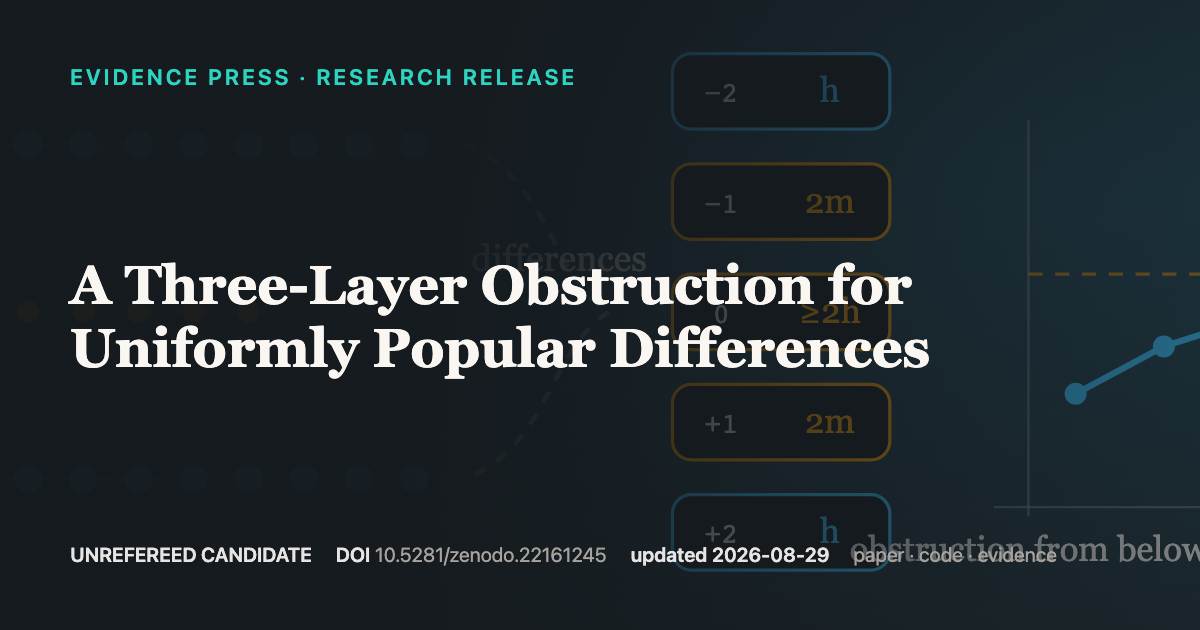
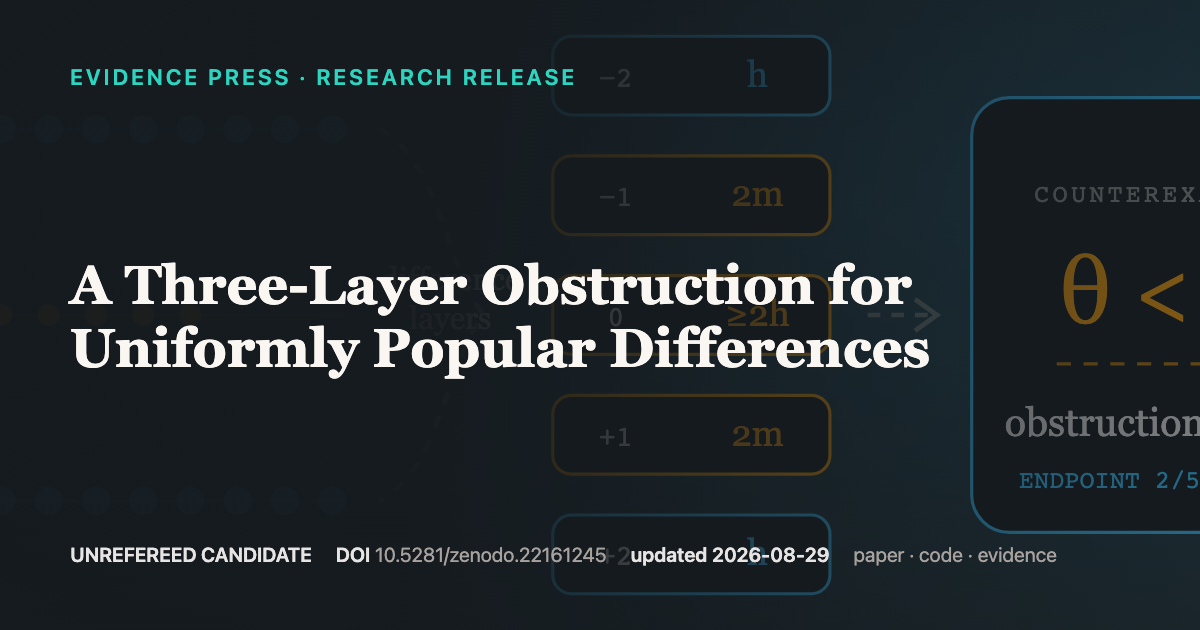
Repair odd-order release art and timing record

diff --git a/build.js b/build.js
@@ -1122,6 +1122,11 @@ function operatingModelHtml(p) {
       const targetClosureBrier = outcome
         ? (forecast.probabilityTargetClosure - Number(outcome.targetReached)) ** 2
         : null;
+      const corrections = (attempt.corrections || []).length
+        ? `<dt>Measurement corrections</dt><dd><ul>${attempt.corrections.map(correction =>
+          `<li><strong>${esc(correction.field)}</strong> — ${esc(correction.replacement)} <span class="note">Reason: ${esc(correction.reason)}</span></li>`
+        ).join('')}</ul></dd>`
+        : '';
       const result = outcome ? [
         `<dt>Observed clocks</dt><dd>${esc(outcome.activeAgentMinutes)} active-agent; ${esc(outcome.activeHumanMinutes ?? 'unknown')} active-human; ${esc(outcome.computeMinutes ?? 'unknown')} substantive-compute; ${esc(outcome.unattendedWaitMinutes)} unattended-wait; ${esc(outcome.blockedMinutes)} blocked; ${esc(outcome.reworkMinutes)} rework minutes. Calendar elapsed: ${esc(outcome.calendarElapsedMinutes)} minutes.</dd>`,
         `<dt>Research search</dt><dd>Cycles: ${esc(outcome.researchCycles.positive)} positive, ${esc(outcome.researchCycles.negative)} negative, ${esc(outcome.researchCycles.inconclusive)} inconclusive. Falsification gates: ${esc(outcome.falsificationGatesRun)}. Candidate architectures: ${esc(outcome.candidateArchitecturesTested)} tested, ${esc(outcome.candidateArchitecturesRejected)} rejected.</dd>`,
@@ -1135,6 +1140,7 @@ function operatingModelHtml(p) {
         <dt>Fermi active-time forecast</dt><dd>${esc(forecast.expectedActiveMinutes)} minutes; plausible interval ${esc(forecast.plausibleLowMinutes)}–${esc(forecast.plausibleHighMinutes)}; expected unattended wait ${esc(forecast.expectedUnattendedWaitMinutes)}. Reference class: ${esc(forecast.referenceClass.label)} (n=${esc(forecast.referenceClass.sampleSize)}) — ${esc(forecast.referenceClass.basis)}.<ul>${components}</ul></dd>
         <dt>Tractability forecast</dt><dd>Within ${esc(forecast.probabilityHorizonMinutes)} active minutes: positive signal ${esc(forecast.probabilityPositiveSignal)}; target closure ${esc(forecast.probabilityTargetClosure)}. Stop rule: ${esc(forecast.stopRule)}</dd>
         ${result}
+        ${corrections}
       </dl></article></li>`;
     }
     const measurement = attempt.measurement;
@@ -1188,7 +1194,10 @@ function operatingModelMarkdown(p) {
         ? rounded((forecast.probabilityPositiveSignal - Number(outcome.positiveSignalObserved)) ** 2, 4)
         : 'not scored';
       const targetClosureBrier = rounded((forecast.probabilityTargetClosure - Number(outcome.targetReached)) ** 2, 4);
-      return `${id}: ${attempt.status} / ${attempt.resultClass}; scope ${metrics.measurementScope}; target ${forecast.targetOutcome}; active forecast ${forecast.expectedActiveMinutes} minutes (${forecast.plausibleLowMinutes}-${forecast.plausibleHighMinutes}); Fermi components ${components}; positive-signal/closure probabilities ${forecast.probabilityPositiveSignal}/${forecast.probabilityTargetClosure} within ${forecast.probabilityHorizonMinutes} active minutes; observed active-agent/human/compute/wait/blocked/rework minutes ${outcome.activeAgentMinutes}/${outcome.activeHumanMinutes ?? 'unknown'}/${outcome.computeMinutes ?? 'unknown'}/${outcome.unattendedWaitMinutes}/${outcome.blockedMinutes}/${outcome.reworkMinutes}; cycles positive/negative/inconclusive ${outcome.researchCycles.positive}/${outcome.researchCycles.negative}/${outcome.researchCycles.inconclusive}; falsification gates ${outcome.falsificationGatesRun}; architectures tested/rejected ${outcome.candidateArchitecturesTested}/${outcome.candidateArchitecturesRejected}; result ${outcome.resultState}; target reached ${outcome.targetReached}; forecast error ${outcome.forecastErrorMinutes} minutes; ratio ${outcome.forecastRatio}; inside interval ${outcome.withinForecastInterval}; positive-signal/target-closure Brier scores ${positiveSignalBrier}/${targetClosureBrier}${missing}`;
+      const corrections = (attempt.corrections || []).length
+        ? `; appended measurement corrections ${attempt.corrections.map(correction => `${correction.field}: ${correction.replacement} (reason: ${correction.reason})`).join('; ')}`
+        : '';
+      return `${id}: ${attempt.status} / ${attempt.resultClass}; scope ${metrics.measurementScope}; target ${forecast.targetOutcome}; active forecast ${forecast.expectedActiveMinutes} minutes (${forecast.plausibleLowMinutes}-${forecast.plausibleHighMinutes}); Fermi components ${components}; positive-signal/closure probabilities ${forecast.probabilityPositiveSignal}/${forecast.probabilityTargetClosure} within ${forecast.probabilityHorizonMinutes} active minutes; observed active-agent/human/compute/wait/blocked/rework minutes ${outcome.activeAgentMinutes}/${outcome.activeHumanMinutes ?? 'unknown'}/${outcome.computeMinutes ?? 'unknown'}/${outcome.unattendedWaitMinutes}/${outcome.blockedMinutes}/${outcome.reworkMinutes}; cycles positive/negative/inconclusive ${outcome.researchCycles.positive}/${outcome.researchCycles.negative}/${outcome.researchCycles.inconclusive}; falsification gates ${outcome.falsificationGatesRun}; architectures tested/rejected ${outcome.candidateArchitecturesTested}/${outcome.candidateArchitecturesRejected}; result ${outcome.resultState}; target reached ${outcome.targetReached}; forecast error ${outcome.forecastErrorMinutes} minutes; ratio ${outcome.forecastRatio}; inside interval ${outcome.withinForecastInterval}; positive-signal/target-closure Brier scores ${positiveSignalBrier}/${targetClosureBrier}${missing}${corrections}`;
     }
     const measurement = attempt.measurement.status === 'not-recorded'
       ? `measurement not recorded (${attempt.measurement.missingnessReason})`

diff --git a/tools/make-art.js b/tools/make-art.js
@@ -1183,39 +1183,40 @@ art['o01d0-polar-fibre-structural-reductions'] = (a, b) => {
    marker preserves the open endpoint rather than presenting it as solved. */
 art['odd-order-one-third-popular-differences'] = (a, b) => {
   let s = '';
-  const layerY = [92, 198, 304];
+  const layerY = [82, 200, 318];
   const layerLabels = ['H × {0}', 'Y × {1}', 'H × {2}'];
   const counts = [9, 6, 9];
   for (let row = 0; row < layerY.length; row++) {
     const y = layerY[row];
-    s += `<text x="66" y="${y + 6}" font-family="ui-monospace,monospace" font-size="17" fill="${row === 1 ? b : a}">${layerLabels[row]}</text>`;
+    s += `<text x="64" y="${y + 6}" font-family="ui-monospace,monospace" font-size="17" fill="${row === 1 ? b : a}">${layerLabels[row]}</text>`;
     for (let i = 0; i < counts[row]; i++) {
-      const x = 202 + i * 35;
+      const x = 190 + i * 30;
       s += `<circle cx="${x}" cy="${y}" r="${row === 1 ? 7 : 9}" fill="${row === 1 ? b : a}" opacity="${row === 1 ? .92 : .78}"/>`;
     }
-    s += `<line x1="194" y1="${y}" x2="492" y2="${y}" stroke="${row === 1 ? b : a}" stroke-width="2" opacity=".34"/>`;
+    s += `<line x1="182" y1="${y}" x2="438" y2="${y}" stroke="${row === 1 ? b : a}" stroke-width="2" opacity=".34"/>`;
   }
-  s += `<path d="M 514 92 C 568 112, 568 176, 606 198 C 568 220, 568 284, 514 304" fill="none" stroke="#8a938f" stroke-width="3" stroke-dasharray="8 8" opacity=".72"/>`;
-  s += `<text x="574" y="172" text-anchor="middle" font-family="Georgia" font-size="23" fill="#e7e5e4">differences</text>`;
+  s += `<path d="M 460 82 C 500 104, 500 166, 526 200 C 500 234, 500 296, 460 318" fill="none" stroke="#8a938f" stroke-width="3" stroke-dasharray="8 8" opacity=".72"/>`;
+  s += `<text x="505" y="184" text-anchor="middle" font-family="Georgia" font-size="20" fill="#e7e5e4">difference</text>`;
+  s += `<text x="505" y="209" text-anchor="middle" font-family="Georgia" font-size="20" fill="#e7e5e4">layers</text>`;
 
   const diffLabels = ['−2', '−1', '0', '+1', '+2'];
   const diffCounts = ['h', '2m', '≥2h', '2m', 'h'];
   for (let i = 0; i < diffLabels.length; i++) {
-    const y = 58 + i * 70;
+    const y = 48 + i * 76;
     const strong = i === 0 || i === 4;
-    s += `<rect x="646" y="${y - 24}" width="138" height="48" rx="12" fill="#151a1e" stroke="${strong ? a : b}" stroke-width="2"/>`;
-    s += `<text x="677" y="${y + 7}" text-anchor="middle" font-family="ui-monospace,monospace" font-size="18" fill="#e7e5e4">${diffLabels[i]}</text>`;
-    s += `<text x="746" y="${y + 7}" text-anchor="middle" font-family="Georgia" font-size="22" fill="${strong ? a : b}">${diffCounts[i]}</text>`;
+    s += `<rect x="570" y="${y - 25}" width="176" height="50" rx="12" fill="#151a1e" stroke="${strong ? a : b}" stroke-width="2"/>`;
+    s += `<text x="610" y="${y + 7}" text-anchor="middle" font-family="ui-monospace,monospace" font-size="18" fill="#e7e5e4">${diffLabels[i]}</text>`;
+    s += `<text x="700" y="${y + 7}" text-anchor="middle" font-family="Georgia" font-size="23" fill="${strong ? a : b}">${diffCounts[i]}</text>`;
   }
 
-  s += `<line x1="850" y1="322" x2="1134" y2="322" stroke="#8a938f" stroke-width="1.5" opacity=".55"/>`;
-  s += `<line x1="872" y1="328" x2="872" y2="76" stroke="#8a938f" stroke-width="1.5" opacity=".55"/>`;
-  s += `<line x1="872" y1="174" x2="1134" y2="174" stroke="${b}" stroke-width="2" stroke-dasharray="9 8" opacity=".7"/>`;
-  s += `<text x="1126" y="163" text-anchor="end" font-family="ui-monospace,monospace" font-size="16" fill="${b}">2/5 open</text>`;
-  const pts = [[902, 250], [958, 220], [1014, 202], [1070, 190], [1122, 183]];
-  s += `<path d="M ${pts.map(([x, y]) => `${x} ${y}`).join(' L ')}" fill="none" stroke="${a}" stroke-width="4"/>`;
-  for (const [x, y] of pts) s += `<circle cx="${x}" cy="${y}" r="7" fill="${a}"/>`;
-  s += `<text x="1000" y="356" text-anchor="middle" font-family="Georgia" font-size="22" fill="#e7e5e4">obstruction from below · not a sharpness theorem</text>`;
+  s += `<path d="M 770 200 H 810" stroke="#8a938f" stroke-width="3" stroke-dasharray="8 7" opacity=".75"/>`;
+  s += `<path d="M 800 190 L 814 200 L 800 210" fill="none" stroke="#8a938f" stroke-width="3" opacity=".75"/>`;
+  s += `<rect x="836" y="62" width="300" height="276" rx="24" fill="#151a1e" stroke="${a}" stroke-width="2" opacity=".96"/>`;
+  s += `<text x="986" y="128" text-anchor="middle" font-family="ui-monospace,monospace" font-size="16" letter-spacing="2" fill="#8a938f">COUNTEREXAMPLES FOR</text>`;
+  s += `<text x="986" y="205" text-anchor="middle" font-family="Georgia" font-size="58" fill="${b}">θ &lt; 2/5</text>`;
+  s += `<line x1="890" y1="231" x2="1082" y2="231" stroke="${b}" stroke-width="2" stroke-dasharray="9 8" opacity=".7"/>`;
+  s += `<text x="986" y="277" text-anchor="middle" font-family="Georgia" font-size="25" fill="#e7e5e4">obstruction from below</text>`;
+  s += `<text x="986" y="310" text-anchor="middle" font-family="ui-monospace,monospace" font-size="16" fill="${a}">ENDPOINT 2/5 REMAINS OPEN</text>`;
   return s;
 };
 

diff --git a/tools/test-operating-model.js b/tools/test-operating-model.js
@@ -315,6 +315,14 @@ function extractFunction(source, name) {
   check('prospective Markdown links method, IBE and work ledgers',
     markdown.includes('/api/method-registry.json') && markdown.includes('/api/ibe-ledger.json') && markdown.includes('/api/work-ledger.json'), markdown);
   const measuredAttempt = postPolicyAttemptFor('future-measured-render');
+  measuredAttempt.corrections.push({
+    at: '2026-08-29T14:03:58Z',
+    fields: ['metrics.outcome.calendarElapsedMinutes'],
+    reason: 'The frozen phase measurement was narrower than the user-visible request-to-readback interval.',
+    replacement: 'Retain the immutable phase measurement and record the reported end-to-end interval as 83 minutes.',
+    evidenceRefs: ['https://evidencepress.org/releases/future-measured-render/']
+  });
+  measuredAttempt.measurement.correctionCount = 1;
   const measuredRender = renderHarness(methodById, ibeById, new Map([[measuredAttempt.attemptId, measuredAttempt]]), 'https://evidencepress.org', esc, rounded);
   const measuredFixture = recordFor('future-measured-render');
   const measuredHtml = measuredRender.operatingModelHtml(measuredFixture);
@@ -323,6 +331,9 @@ function extractFunction(source, name) {
     measuredHtml.includes('Fermi active-time forecast') && measuredHtml.includes('Research search') &&
       measuredHtml.includes('positive-signal') && measuredHtml.includes('actual/forecast 1') &&
       measuredHtml.includes('target closure 0.0625'), measuredHtml);
+  check('measured release HTML publishes append-only measurement corrections',
+    measuredHtml.includes('Measurement corrections') && measuredHtml.includes('83 minutes') &&
+      measuredHtml.includes('immutable phase measurement'), measuredHtml);
   check('measured release Markdown publishes scope, probabilities and rejected-route counts',
     measuredMarkdown.includes('scope research-through-publication') && measuredMarkdown.includes('positive-signal/closure probabilities 0.6/0.25') &&
       measuredMarkdown.includes('architectures tested/rejected 1/0') &&

diff --git a/tests/release-corpus.spec.js b/tests/release-corpus.spec.js
@@ -65,3 +65,34 @@ for (const viewport of [
     expect(failures, failures.join('\n')).toEqual([]);
   });
 }
+
+test('all release hero SVG text remains inside its viewBox', async ({ page }) => {
+  const failures = [];
+
+  for (const slug of slugs) {
+    const response = await page.goto(`http://127.0.0.1:8080/assets/art/${slug}.svg`, { waitUntil: 'load' });
+    if (!response || response.status() !== 200) {
+      failures.push(`${slug}: hero SVG returned HTTP ${response && response.status()}`);
+      continue;
+    }
+    const escaped = await page.evaluate(() => {
+      const svg = document.querySelector('svg');
+      if (!svg || !svg.viewBox || !svg.viewBox.baseVal) return ['missing SVG viewBox'];
+      const view = svg.viewBox.baseVal;
+      const tolerance = 0.5;
+      return [...svg.querySelectorAll('text')].flatMap((node, index) => {
+        const box = node.getBBox();
+        const outside = box.x < view.x - tolerance
+          || box.y < view.y - tolerance
+          || box.x + box.width > view.x + view.width + tolerance
+          || box.y + box.height > view.y + view.height + tolerance;
+        return outside
+          ? [`text ${index} ${JSON.stringify(node.textContent)} has bbox ${box.x.toFixed(1)},${box.y.toFixed(1)},${box.width.toFixed(1)},${box.height.toFixed(1)} outside ${view.x},${view.y},${view.width},${view.height}`]
+          : [];
+      });
+    });
+    for (const problem of escaped) failures.push(`${slug}: ${problem}`);
+  }
+
+  expect(failures, failures.join('\n')).toEqual([]);
+});
